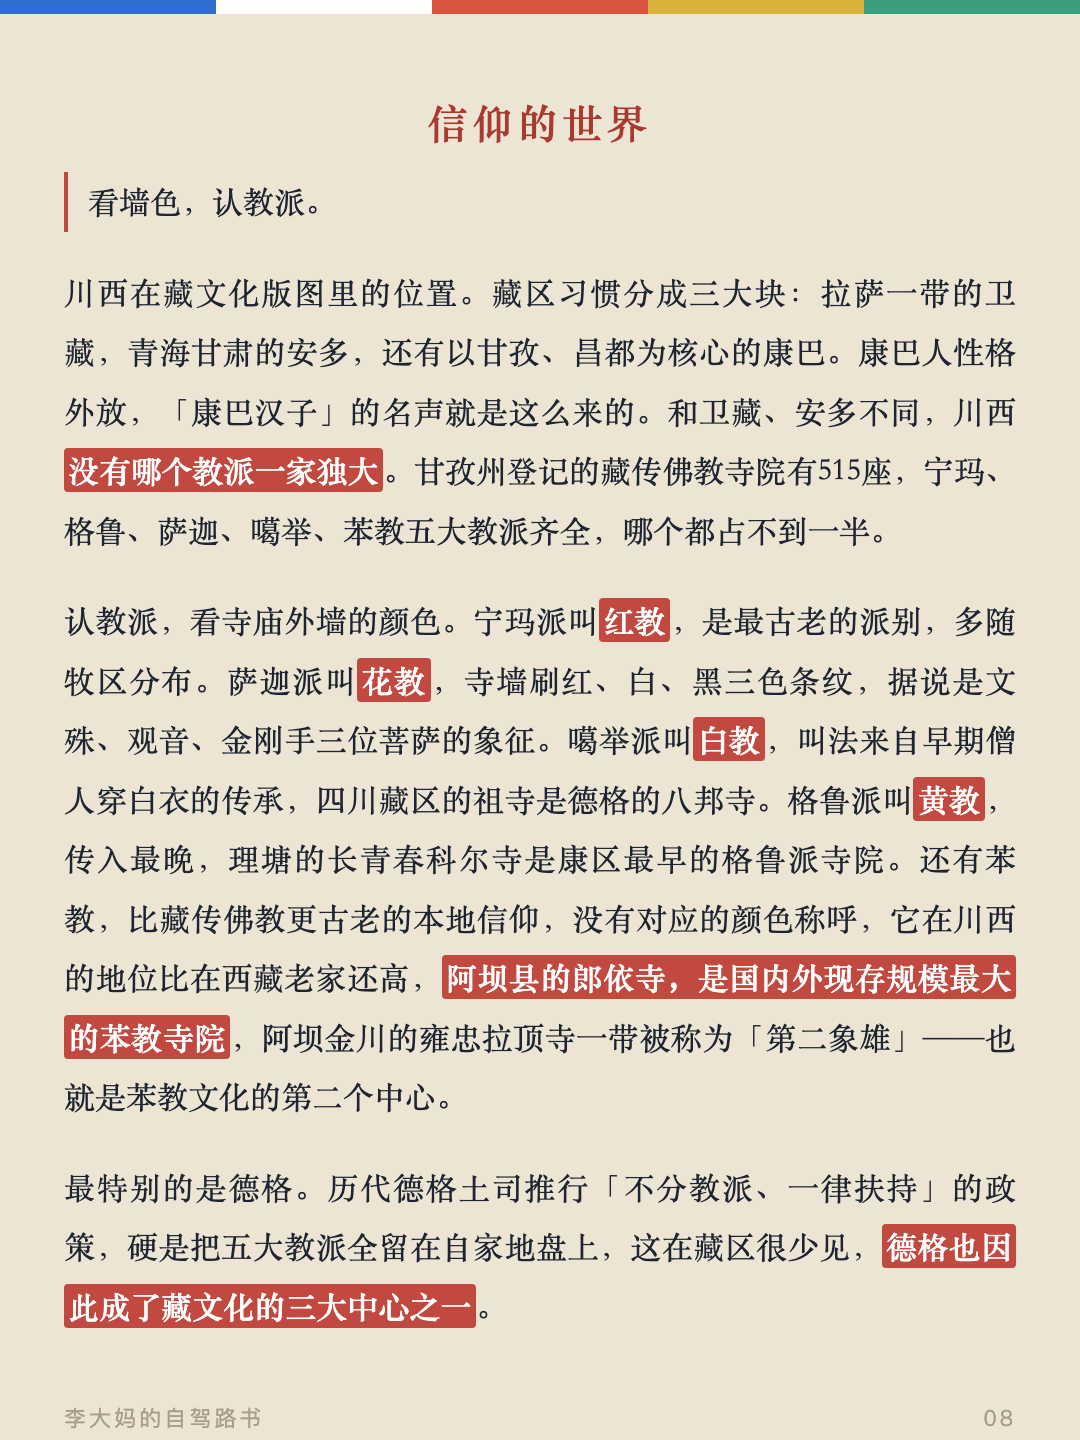
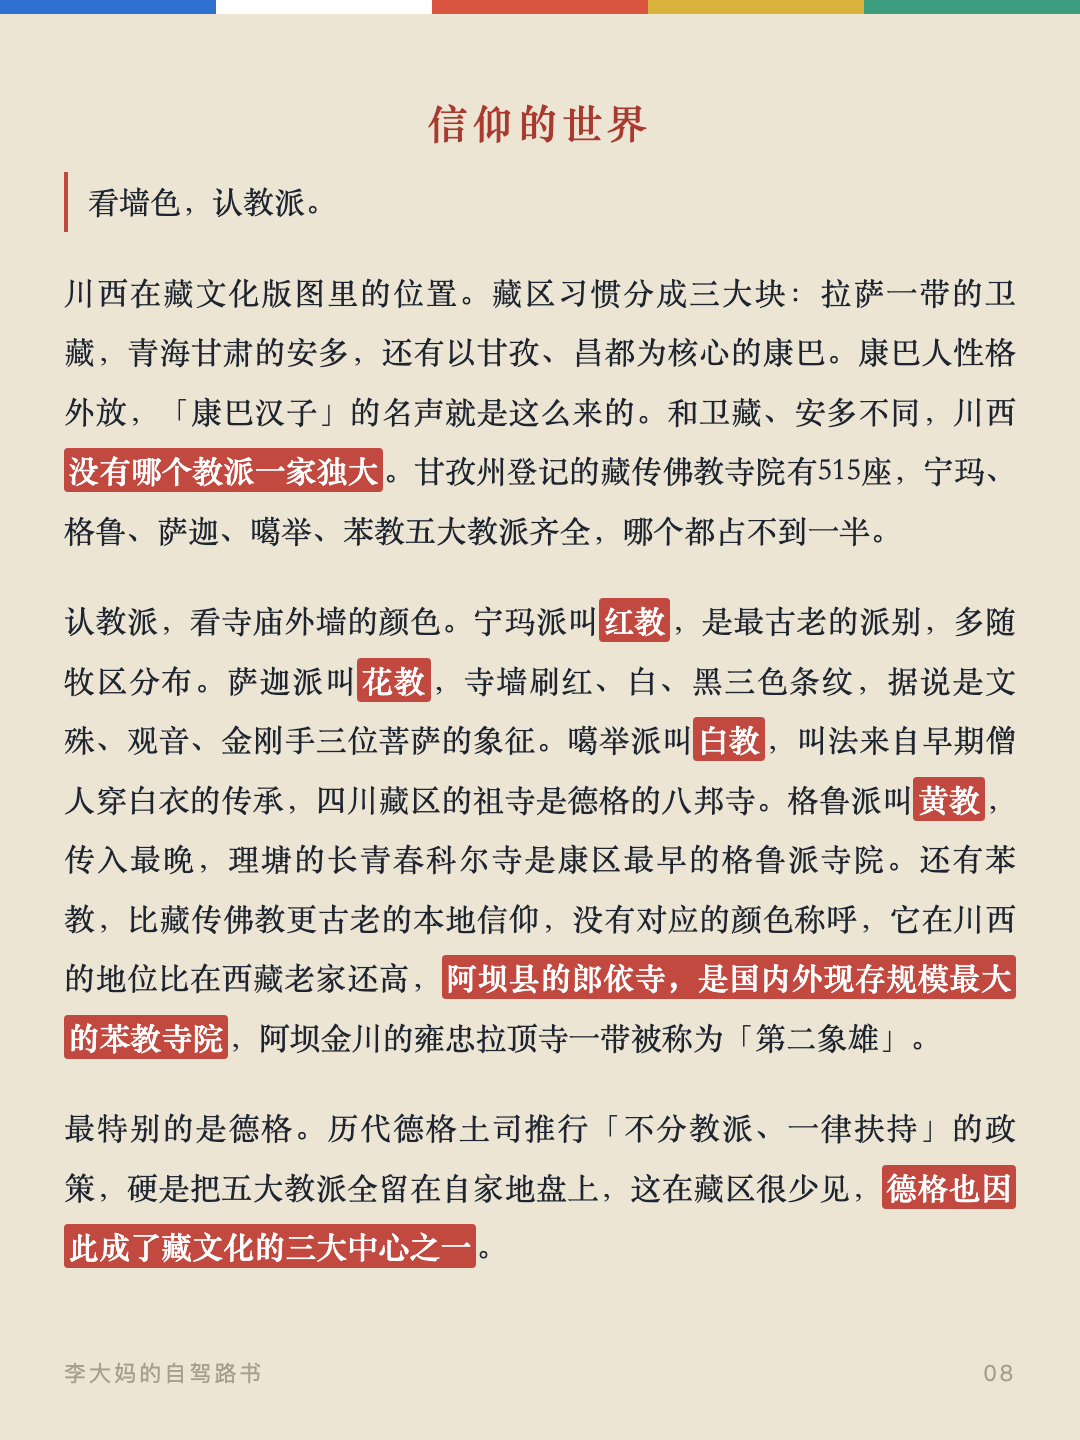
删『第二象雄——苯教文化第二个中心』解释句

diff --git a/cards.html b/cards.html
@@ -137,7 +137,7 @@
 
 <div class="card" id="card7"><div class="flag" aria-hidden="true"><span style="background:var(--flag-blue)"></span><span style="background:var(--flag-white)"></span><span style="background:var(--flag-red)"></span><span style="background:var(--flag-yellow)"></span><span style="background:var(--flag-green)"></span></div><div class="card__inner"><h3>充电</h3><p>川西这两年变化快。2025年6月甘孜州18个公路养护站和14个快充站投运，理塘到稻城段充电桩最大间距125公里；318沿线超300个充电桩，快充占七成以上。密度从东往西递减：成都到康定每30到50公里一个快充；康定、新都桥、雅江、理塘每80到150公里；理塘往稻城亚丁、新都桥往塔公八美每150到200公里。冷嘎措、格聂、若尔盖穿越段还是盲区。实际体验要打折：约一成五的桩故障或被燃油车占位，节假日热门站排队可能超一小时。高原续航缩水约三四成。<strong>电量低于三成就找桩</strong>，进景区前在县城充到八成以上。查桩用特来电、国网e充电、星星充电的App，或高德的新能源模式。</p><h3>封路信息</h3><p>两类封路最常见：汛期6到8月塌方落石，抢修期间半幅放行或管制；冬季11月到次年3、4月冬管，比如九绵高速夜间20点到次日8点禁行，夹金山段整个冬天双向禁行，理小路冬天全段禁行。<strong>G317马尔康到观音桥段，自2025年11月红旗特大桥垮塌后一直中断</strong>，绕行走壤塘、阿坝、红原方向，约多3小时；官方便道工程预计2026年9月底至10月初通车。官方渠道：阿坝州政府官网阿坝路况专栏、四川发布和成都发布公众号、高速救援12122、报警96122。<strong>官方路况和高德，出发当天交叉核对</strong>。</p><div class="card__foot"><span>李大妈的自驾路书</span><span>07</span></div></div></div>
 
-<div class="card" id="card8"><div class="flag" aria-hidden="true"><span style="background:var(--flag-blue)"></span><span style="background:var(--flag-white)"></span><span style="background:var(--flag-red)"></span><span style="background:var(--flag-yellow)"></span><span style="background:var(--flag-green)"></span></div><div class="card__inner"><h2>信仰的世界</h2><p class="card__lead">看墙色，认教派。</p><p>川西在藏文化版图里的位置。藏区习惯分成三大块：拉萨一带的卫藏，青海甘肃的安多，还有以甘孜、昌都为核心的康巴。康巴人性格外放，「康巴汉子」的名声就是这么来的。和卫藏、安多不同，川西<strong>没有哪个教派一家独大</strong>。甘孜州登记的藏传佛教寺院有515座，宁玛、格鲁、萨迦、噶举、苯教五大教派齐全，哪个都占不到一半。</p><p>认教派，看寺庙外墙的颜色。宁玛派叫<strong>红教</strong>，是最古老的派别，多随牧区分布。萨迦派叫<strong>花教</strong>，寺墙刷红、白、黑三色条纹，据说是文殊、观音、金刚手三位菩萨的象征。噶举派叫<strong>白教</strong>，叫法来自早期僧人穿白衣的传承，四川藏区的祖寺是德格的八邦寺。格鲁派叫<strong>黄教</strong>，传入最晚，理塘的长青春科尔寺是康区最早的格鲁派寺院。还有苯教，比藏传佛教更古老的本地信仰，没有对应的颜色称呼，它在川西的地位比在西藏老家还高，<strong>阿坝县的郎依寺，是国内外现存规模最大的苯教寺院</strong>，阿坝金川的雍忠拉顶寺一带被称为「第二象雄」——也就是苯教文化的第二个中心。</p><p>最特别的是德格。历代德格土司推行「不分教派、一律扶持」的政策，硬是把五大教派全留在自家地盘上，这在藏区很少见，<strong>德格也因此成了藏文化的三大中心之一</strong>。</p><div class="card__foot"><span>李大妈的自驾路书</span><span>08</span></div></div></div>
+<div class="card" id="card8"><div class="flag" aria-hidden="true"><span style="background:var(--flag-blue)"></span><span style="background:var(--flag-white)"></span><span style="background:var(--flag-red)"></span><span style="background:var(--flag-yellow)"></span><span style="background:var(--flag-green)"></span></div><div class="card__inner"><h2>信仰的世界</h2><p class="card__lead">看墙色，认教派。</p><p>川西在藏文化版图里的位置。藏区习惯分成三大块：拉萨一带的卫藏，青海甘肃的安多，还有以甘孜、昌都为核心的康巴。康巴人性格外放，「康巴汉子」的名声就是这么来的。和卫藏、安多不同，川西<strong>没有哪个教派一家独大</strong>。甘孜州登记的藏传佛教寺院有515座，宁玛、格鲁、萨迦、噶举、苯教五大教派齐全，哪个都占不到一半。</p><p>认教派，看寺庙外墙的颜色。宁玛派叫<strong>红教</strong>，是最古老的派别，多随牧区分布。萨迦派叫<strong>花教</strong>，寺墙刷红、白、黑三色条纹，据说是文殊、观音、金刚手三位菩萨的象征。噶举派叫<strong>白教</strong>，叫法来自早期僧人穿白衣的传承，四川藏区的祖寺是德格的八邦寺。格鲁派叫<strong>黄教</strong>，传入最晚，理塘的长青春科尔寺是康区最早的格鲁派寺院。还有苯教，比藏传佛教更古老的本地信仰，没有对应的颜色称呼，它在川西的地位比在西藏老家还高，<strong>阿坝县的郎依寺，是国内外现存规模最大的苯教寺院</strong>，阿坝金川的雍忠拉顶寺一带被称为「第二象雄」。</p><p>最特别的是德格。历代德格土司推行「不分教派、一律扶持」的政策，硬是把五大教派全留在自家地盘上，这在藏区很少见，<strong>德格也因此成了藏文化的三大中心之一</strong>。</p><div class="card__foot"><span>李大妈的自驾路书</span><span>08</span></div></div></div>
 
 <div class="card" id="card9"><div class="flag" aria-hidden="true"><span style="background:var(--flag-blue)"></span><span style="background:var(--flag-white)"></span><span style="background:var(--flag-red)"></span><span style="background:var(--flag-yellow)"></span><span style="background:var(--flag-green)"></span></div><div class="card__inner"><p>路边的符号，各有含义。经幡也叫风马旗，五种颜色对应蓝天、白云、红火、江河、大地，挂在山顶风口，<strong>藏人相信风吹动一次等于诵经一次</strong>。玛尼堆是刻了六字真言的石块堆，路人经过会念着真言添一块石头，不搬走当纪念品。白塔源于古印度的覆钵式佛塔，路过捡块石头放上去，或献条哈达许愿。德格佐钦寺的白塔是尼泊尔风格，方形塔顶四面画着佛眼，<strong>和加德满都的博达哈大佛塔同一形制</strong>，博达哈是全世界最大的覆钵塔。转经筒里装着经文，转一圈等于念诵一遍，藏人转经廊、转佛塔、转寺院都是这个逻辑。六字真言「唵嘛呢叭咪吽」是观世音菩萨的总持咒，被看作雪域佛法最根本的念诵。</p><p>和信仰打交道，有几条规矩：<strong>绕行一律顺时针，只有苯教是逆时针</strong>。磕长头是身敬、语敬、意敬三者合一，额头叩地的瞬间，心里同时念咒、观想，这是他们能磕几千公里的原因。煨桑是烧香柏枝，敬献给神佛的香火，也是祈愿的仪式。献哈达要看对象：白色最普遍，黄色献给活佛和高僧，五彩哈达被视为菩萨的衣裳，只在隆重场合用。<strong>哈达只递到对方手里，不能挂脖子上，只有长辈给晚辈才往脖子上搭</strong>。天葬是藏人把遗体布施给神鹰，被认为是最高的舍身布施，<strong>全程严禁围观、拍照，当地有明文规定，连打听都不要</strong>。另有几条硬规矩：<strong>不摸别人的头，佛像、唐卡、经书不指</strong>，非要指就五指并拢、手心朝上，不进人家供奉的佛堂，不取献给塔上的供品，过门槛不踩。</p><div class="card__foot"><span>李大妈的自驾路书</span><span>09</span></div></div></div>
 

diff --git a/index.html b/index.html
@@ -263,7 +263,7 @@
       <div class="part__head"><span class="part__no" aria-hidden="true">四</span><h2>信仰的世界</h2></div>
       <p class="part__lead">看墙色，认教派。</p>
       <p>川西在藏文化版图里的位置。藏区习惯分成三大块：拉萨一带的卫藏，青海甘肃的安多，还有以甘孜、昌都为核心的康巴。康巴人性格外放，「康巴汉子」的名声就是这么来的。和卫藏、安多不同，川西<strong>没有哪个教派一家独大</strong>。甘孜州登记的藏传佛教寺院有515座，宁玛、格鲁、萨迦、噶举、苯教五大教派齐全，哪个都占不到一半。</p>
-      <p>认教派，看寺庙外墙的颜色。宁玛派叫<strong>红教</strong>，是最古老的派别，多随牧区分布。萨迦派叫<strong>花教</strong>，寺墙刷红、白、黑三色条纹，据说是文殊、观音、金刚手三位菩萨的象征。噶举派叫<strong>白教</strong>，叫法来自早期僧人穿白衣的传承，四川藏区的祖寺是德格的八邦寺。格鲁派叫<strong>黄教</strong>，传入最晚，理塘的长青春科尔寺是康区最早的格鲁派寺院。还有苯教，比藏传佛教更古老的本地信仰，没有对应的颜色称呼，它在川西的地位比在西藏老家还高，<strong>阿坝县的郎依寺，是国内外现存规模最大的苯教寺院</strong>，阿坝金川的雍忠拉顶寺一带被称为「第二象雄」——也就是苯教文化的第二个中心。</p>
+      <p>认教派，看寺庙外墙的颜色。宁玛派叫<strong>红教</strong>，是最古老的派别，多随牧区分布。萨迦派叫<strong>花教</strong>，寺墙刷红、白、黑三色条纹，据说是文殊、观音、金刚手三位菩萨的象征。噶举派叫<strong>白教</strong>，叫法来自早期僧人穿白衣的传承，四川藏区的祖寺是德格的八邦寺。格鲁派叫<strong>黄教</strong>，传入最晚，理塘的长青春科尔寺是康区最早的格鲁派寺院。还有苯教，比藏传佛教更古老的本地信仰，没有对应的颜色称呼，它在川西的地位比在西藏老家还高，<strong>阿坝县的郎依寺，是国内外现存规模最大的苯教寺院</strong>，阿坝金川的雍忠拉顶寺一带被称为「第二象雄」。</p>
       <p>最特别的是德格。历代德格土司推行「不分教派、一律扶持」的政策，硬是把五大教派全留在自家地盘上，这在藏区很少见，<strong>德格也因此成了藏文化的三大中心之一</strong>。</p>
       <p>路边的符号，各有含义。经幡也叫风马旗，五种颜色对应蓝天、白云、红火、江河、大地，挂在山顶风口，<strong>藏人相信风吹动一次等于诵经一次</strong>。玛尼堆是刻了六字真言的石块堆，路人经过会念着真言添一块石头，不搬走当纪念品。白塔源于古印度的覆钵式佛塔，路过捡块石头放上去，或献条哈达许愿。德格佐钦寺的白塔是尼泊尔风格，方形塔顶四面画着佛眼，<strong>和加德满都的博达哈大佛塔同一形制</strong>，博达哈是全世界最大的覆钵塔。转经筒里装着经文，转一圈等于念诵一遍，藏人转经廊、转佛塔、转寺院都是这个逻辑。六字真言「唵嘛呢叭咪吽」是观世音菩萨的总持咒，被看作雪域佛法最根本的念诵。</p>
       <p>和信仰打交道，有几条规矩：<strong>绕行一律顺时针，只有苯教是逆时针</strong>。磕长头是身敬、语敬、意敬三者合一，额头叩地的瞬间，心里同时念咒、观想，这是他们能磕几千公里的原因。煨桑是烧香柏枝，敬献给神佛的香火，也是祈愿的仪式。献哈达要看对象：白色最普遍，黄色献给活佛和高僧，五彩哈达被视为菩萨的衣裳，只在隆重场合用。<strong>哈达只递到对方手里，不能挂脖子上，只有长辈给晚辈才往脖子上搭</strong>。天葬是藏人把遗体布施给神鹰，被认为是最高的舍身布施，<strong>全程严禁围观、拍照，当地有明文规定，连打听都不要</strong>。另有几条硬规矩：<strong>不摸别人的头，佛像、唐卡、经书不指</strong>，非要指就五指并拢、手心朝上，不进人家供奉的佛堂，不取献给塔上的供品，过门槛不踩。</p>

diff --git a/gen_cards.py b/gen_cards.py
@@ -61,7 +61,7 @@ BODY_STREAM = [
   ('h2', '信仰的世界'),
   ('lead', '看墙色，认教派。'),
   ('p', '川西在藏文化版图里的位置。藏区习惯分成三大块：拉萨一带的卫藏，青海甘肃的安多，还有以甘孜、昌都为核心的康巴。康巴人性格外放，「康巴汉子」的名声就是这么来的。和卫藏、安多不同，川西<strong>没有哪个教派一家独大</strong>。甘孜州登记的藏传佛教寺院有515座，宁玛、格鲁、萨迦、噶举、苯教五大教派齐全，哪个都占不到一半。'),
-  ('p', '认教派，看寺庙外墙的颜色。宁玛派叫<strong>红教</strong>，是最古老的派别，多随牧区分布。萨迦派叫<strong>花教</strong>，寺墙刷红、白、黑三色条纹，据说是文殊、观音、金刚手三位菩萨的象征。噶举派叫<strong>白教</strong>，叫法来自早期僧人穿白衣的传承，四川藏区的祖寺是德格的八邦寺。格鲁派叫<strong>黄教</strong>，传入最晚，理塘的长青春科尔寺是康区最早的格鲁派寺院。还有苯教，比藏传佛教更古老的本地信仰，没有对应的颜色称呼，它在川西的地位比在西藏老家还高，<strong>阿坝县的郎依寺，是国内外现存规模最大的苯教寺院</strong>，阿坝金川的雍忠拉顶寺一带被称为「第二象雄」——也就是苯教文化的第二个中心。'),
+  ('p', '认教派，看寺庙外墙的颜色。宁玛派叫<strong>红教</strong>，是最古老的派别，多随牧区分布。萨迦派叫<strong>花教</strong>，寺墙刷红、白、黑三色条纹，据说是文殊、观音、金刚手三位菩萨的象征。噶举派叫<strong>白教</strong>，叫法来自早期僧人穿白衣的传承，四川藏区的祖寺是德格的八邦寺。格鲁派叫<strong>黄教</strong>，传入最晚，理塘的长青春科尔寺是康区最早的格鲁派寺院。还有苯教，比藏传佛教更古老的本地信仰，没有对应的颜色称呼，它在川西的地位比在西藏老家还高，<strong>阿坝县的郎依寺，是国内外现存规模最大的苯教寺院</strong>，阿坝金川的雍忠拉顶寺一带被称为「第二象雄」。'),
   ('p', '最特别的是德格。历代德格土司推行「不分教派、一律扶持」的政策，硬是把五大教派全留在自家地盘上，这在藏区很少见，<strong>德格也因此成了藏文化的三大中心之一</strong>。'),
   ('p', '路边的符号，各有含义。经幡也叫风马旗，五种颜色对应蓝天、白云、红火、江河、大地，挂在山顶风口，<strong>藏人相信风吹动一次等于诵经一次</strong>。玛尼堆是刻了六字真言的石块堆，路人经过会念着真言添一块石头，不搬走当纪念品。白塔源于古印度的覆钵式佛塔，路过捡块石头放上去，或献条哈达许愿。德格佐钦寺的白塔是尼泊尔风格，方形塔顶四面画着佛眼，<strong>和加德满都的博达哈大佛塔同一形制</strong>，博达哈是全世界最大的覆钵塔。转经筒里装着经文，转一圈等于念诵一遍，藏人转经廊、转佛塔、转寺院都是这个逻辑。六字真言「唵嘛呢叭咪吽」是观世音菩萨的总持咒，被看作雪域佛法最根本的念诵。'),
   ('p', '和信仰打交道，有几条规矩：<strong>绕行一律顺时针，只有苯教是逆时针</strong>。磕长头是身敬、语敬、意敬三者合一，额头叩地的瞬间，心里同时念咒、观想，这是他们能磕几千公里的原因。煨桑是烧香柏枝，敬献给神佛的香火，也是祈愿的仪式。献哈达要看对象：白色最普遍，黄色献给活佛和高僧，五彩哈达被视为菩萨的衣裳，只在隆重场合用。<strong>哈达只递到对方手里，不能挂脖子上，只有长辈给晚辈才往脖子上搭</strong>。天葬是藏人把遗体布施给神鹰，被认为是最高的舍身布施，<strong>全程严禁围观、拍照，当地有明文规定，连打听都不要</strong>。另有几条硬规矩：<strong>不摸别人的头，佛像、唐卡、经书不指</strong>，非要指就五指并拢、手心朝上，不进人家供奉的佛堂，不取献给塔上的供品，过门槛不踩。'),
